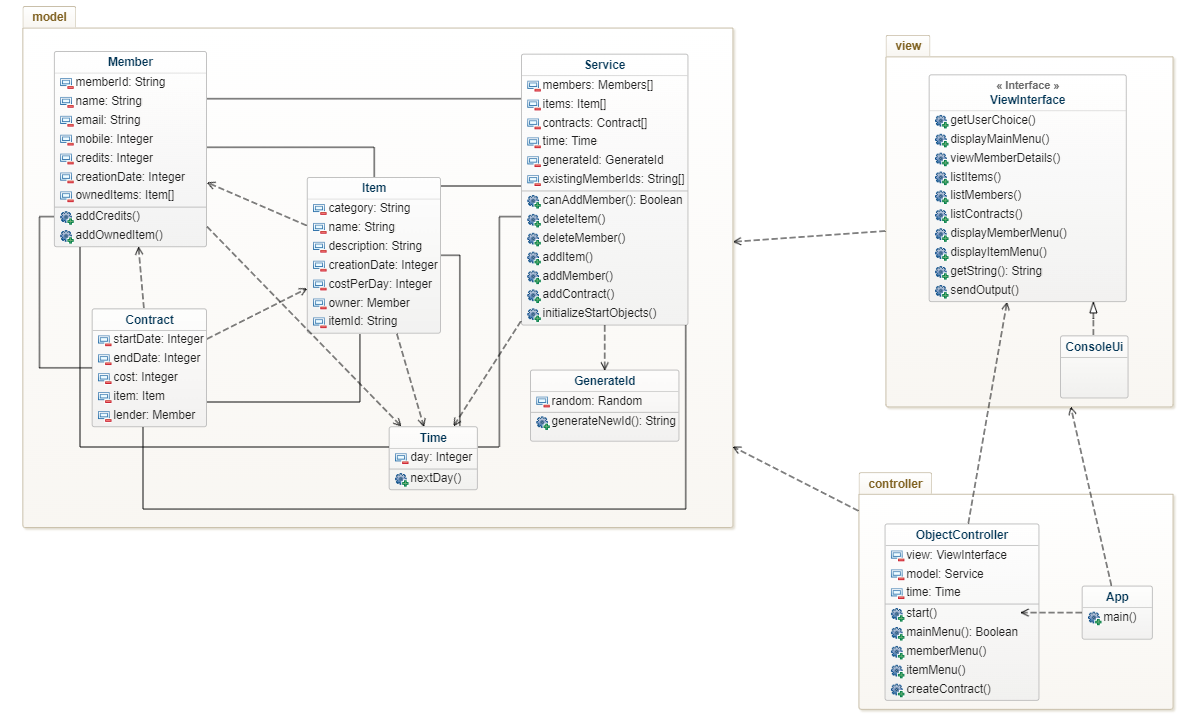
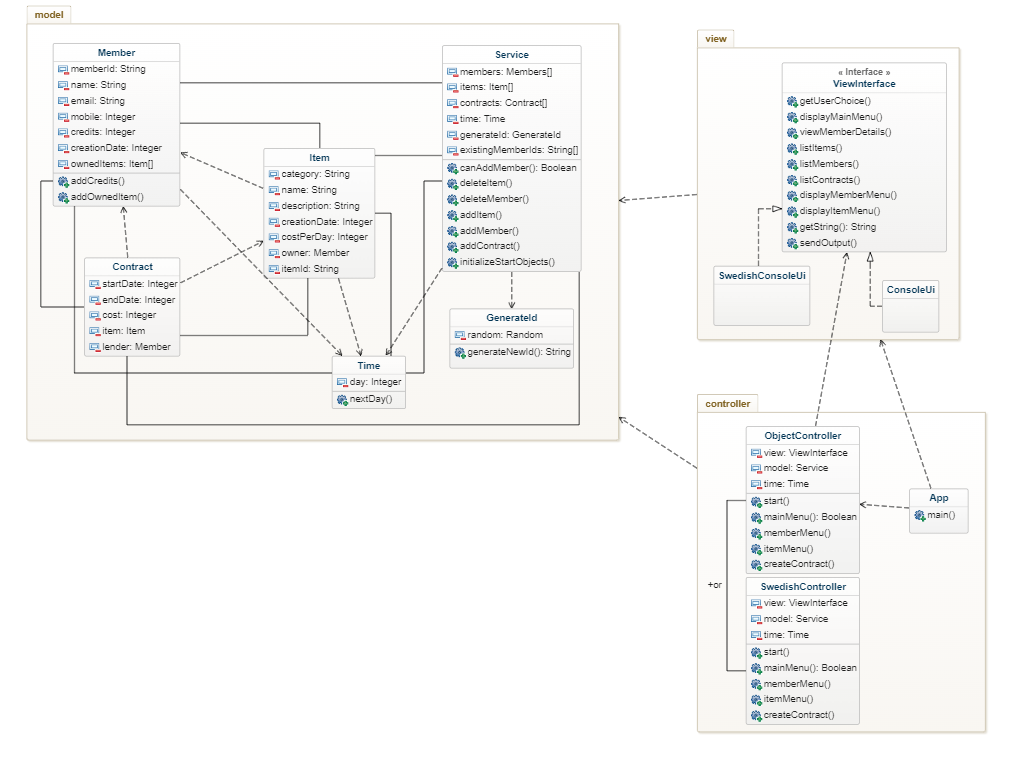
renew class diagram and report

diff --git a/testreport.md b/testreport.md
@@ -3,22 +3,26 @@
 
 ```
 CodeQualityTests > codeQuality() STANDARD_OUT
-    0 CheckStyle Issues in C:/Users/etkae/Desktop/Ny mapp/a2/app/src/main/java/controller/App.java
-    0 CheckStyle Issues in C:/Users/etkae/Desktop/Ny mapp/a2/app/src/main/java/controller/ObjectController.java
-    0 CheckStyle Issues in C:/Users/etkae/Desktop/Ny mapp/a2/app/src/main/java/model/Contract.java
-    0 CheckStyle Issues in C:/Users/etkae/Desktop/Ny mapp/a2/app/src/main/java/model/GenerateId.java
-    0 CheckStyle Issues in C:/Users/etkae/Desktop/Ny mapp/a2/app/src/main/java/model/Item.java
-    0 CheckStyle Issues in C:/Users/etkae/Desktop/Ny mapp/a2/app/src/main/java/model/Member.java
-    0 CheckStyle Issues in C:/Users/etkae/Desktop/Ny mapp/a2/app/src/main/java/model/Service.java
-    0 CheckStyle Issues in C:/Users/etkae/Desktop/Ny mapp/a2/app/src/main/java/model/Time.java
-    0 CheckStyle Issues in C:/Users/etkae/Desktop/Ny mapp/a2/app/src/main/java/view/ConsoleUi.java
-    0 CheckStyle Issues in C:/Users/etkae/Desktop/Ny mapp/a2/app/src/main/java/view/ViewInterface.java
+    0 CheckStyle Issues in C:/Users/etkae/Desktop/Programmering/a2/app/src/main/java/controller/App.java
+    0 CheckStyle Issues in C:/Users/etkae/Desktop/Programmering/a2/app/src/main/java/controller/ObjectController.java
+    0 CheckStyle Issues in C:/Users/etkae/Desktop/Programmering/a2/app/src/main/java/controller/SwedishController.java
+    0 CheckStyle Issues in C:/Users/etkae/Desktop/Programmering/a2/app/src/main/java/model/Contract.java
+    0 CheckStyle Issues in C:/Users/etkae/Desktop/Programmering/a2/app/src/main/java/model/GenerateId.java
+    0 CheckStyle Issues in C:/Users/etkae/Desktop/Programmering/a2/app/src/main/java/model/Item.java
+    0 CheckStyle Issues in C:/Users/etkae/Desktop/Programmering/a2/app/src/main/java/model/Member.java
+    0 CheckStyle Issues in C:/Users/etkae/Desktop/Programmering/a2/app/src/main/java/model/Service.java
+    0 CheckStyle Issues in C:/Users/etkae/Desktop/Programmering/a2/app/src/main/java/model/Time.java
+    0 CheckStyle Issues in C:/Users/etkae/Desktop/Programmering/a2/app/src/main/java/view/ConsoleUi.java
+    0 CheckStyle Issues in C:/Users/etkae/Desktop/Programmering/a2/app/src/main/java/view/SwedishConsoleUi.java
+    0 CheckStyle Issues in C:/Users/etkae/Desktop/Programmering/a2/app/src/main/java/view/ViewInterface.java
+    0 FindBugs Issues in controller/SwedishController.java
     0 FindBugs Issues in model/Time.java
     0 FindBugs Issues in view/ViewInterface.java
     0 FindBugs Issues in model/Contract.java
-    0 FindBugs Issues in model/GenerateId.java
+    0 FindBugs Issues in view/SwedishConsoleUi.java
     0 FindBugs Issues in controller/App.java
     0 FindBugs Issues in view/ConsoleUi.java
+    0 FindBugs Issues in model/GenerateId.java
     0 FindBugs Issues in model/Service.java
     0 FindBugs Issues in model/Item.java
     0 FindBugs Issues in controller/ObjectController.java

diff --git a/design.md b/design.md
@@ -14,3 +14,6 @@ This object diagram corresponds to the sequence diagram scenario below. Two memb
 ### Sequence Diagram
 ![Sequence diagram](/img/sequence_diagram.png)  
 This sequence diagram corresponds to a scenario where a new third member is added to the system where there two other members already exist. It also shows the whole flow of messages and methods. 
+
+![Sequence diagram 2](/img/sequence_diagram2.png)  
+The second sequence diagram for retake shows the process of adding a new item to a member. 
